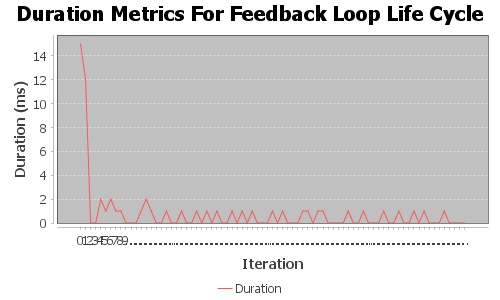
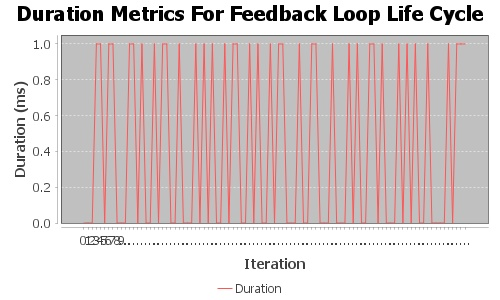
[Update] adjusted TestHelper to exclude 1st iteration in metrics

diff --git a/src/main/java/com/mycompany/rts/Helper/TestHelper.java b/src/main/java/com/mycompany/rts/Helper/TestHelper.java
@@ -25,10 +25,16 @@ public class TestHelper {
         durationList.add(duration);
     }
 
-    public void printDurationMetrics(String metricType) {
+    public void printDurationMetrics(String metricType, boolean includeFirstIteration) {
         double totalDuration = 0;
         double maxDuration = 0;
         double minDuration = 100000;
+        String includeOrExclude = includeFirstIteration ? "INCLUDING" : "EXCLUDING";
+
+        if (!includeFirstIteration) {
+            durationList.remove(0);
+            cycles--;
+        }
         double totalSignals = durationList.size();
 
         for (String duration : durationList) {
@@ -41,16 +47,18 @@ public class TestHelper {
             }
             totalDuration += durationParsed;
         }
+
         System.out.println();
         System.out.println("==================================");
         System.out.println("Duration Metrics For " + metricType);
         System.out.println("==================================");
+        System.out.println("-----" + includeOrExclude + " 1ST ITERATION-----");
+        System.out.println("Count of Durations Collected: " + totalSignals);
         System.out.println("Total Duration: " + totalDuration + " ms - over " + cycles + " iterations");
         System.out.println("Max Duration: " + maxDuration + " ms");
         System.out.println("Min Duration: " + minDuration + " ms");
         System.out.println("Avg Duration: " + totalDuration / totalSignals + " ms");
         System.out.println("==================================");
-        System.out.println();
     }
 
     public void printThroughputMetrics() {
@@ -61,7 +69,6 @@ public class TestHelper {
         System.out.println("Total Consumed: " + totalConsumed + " messages");
         System.out.println("Total Published: " + totalPublished + " messages");
         System.out.println("==================================");
-        System.out.println();
     }
 
     public void printLineChart(String fileName, String chartTitle) {

diff --git a/src/main/java/com/mycompany/rts/flightcontrol/Sensors.java b/src/main/java/com/mycompany/rts/flightcontrol/Sensors.java
@@ -76,13 +76,15 @@ public class Sensors {
         if (message.contains("sensor new reading")) {
             mockSensorData.totalConsumed++;
             if (mockSensorData.startTime != 0) {
+                mockSensorData.cycles++;
                 mockSensorData.endTime = System.currentTimeMillis();
                 mockSensorData.addDuration(mockSensorData.getTimeDifference());
                 mockSensorData.startTime = 0;
             }
         } else if (message.contains("shutdownMode")) {
             System.out.println("Connection closed");
-            mockSensorData.printDurationMetrics("Feedback Loop Life Cycle");
+            mockSensorData.printDurationMetrics("Feedback Loop Life Cycle", true);
+            mockSensorData.printDurationMetrics("Feedback Loop Life Cycle", false);
             mockSensorData.printThroughputMetrics();
             mockSensorData.printLineChart("feedbackLoop", "Feedback Loop Life Cycle");
             System.exit(0);

diff --git a/src/main/java/com/mycompany/rts/flightcontrol/FlightControl.java b/src/main/java/com/mycompany/rts/flightcontrol/FlightControl.java
@@ -79,7 +79,8 @@ public class FlightControl {
                         channel.close();
                         connection.close();
                         if (!shutdownSensor.isAlive() && !shutdownActuator.isAlive()) {
-                            flightControlProcessor.printDurationMetrics("FCS Processing Time");
+                            flightControlProcessor.printDurationMetrics("FCS Processing Time", true);
+                            flightControlProcessor.printDurationMetrics("FCS Processing Time", false);
                             flightControlProcessor.printLineChart("FCSProcessor", "Feedback Loop Life Cycle");
                             System.exit(0);
                         }

diff --git a/src/main/java/com/mycompany/rts/Processor/MockSensorData.java b/src/main/java/com/mycompany/rts/Processor/MockSensorData.java
@@ -90,7 +90,6 @@ public class MockSensorData extends TestHelper {
         public void run() {
             try {
                 System.out.println("Publishing " + sensorDataList.size() + " sensor data");
-                cycles++;
                 endTime = 0;
                 startTime = System.currentTimeMillis();
                 for (int i = 0; i < sensorDataList.size(); i++) {
